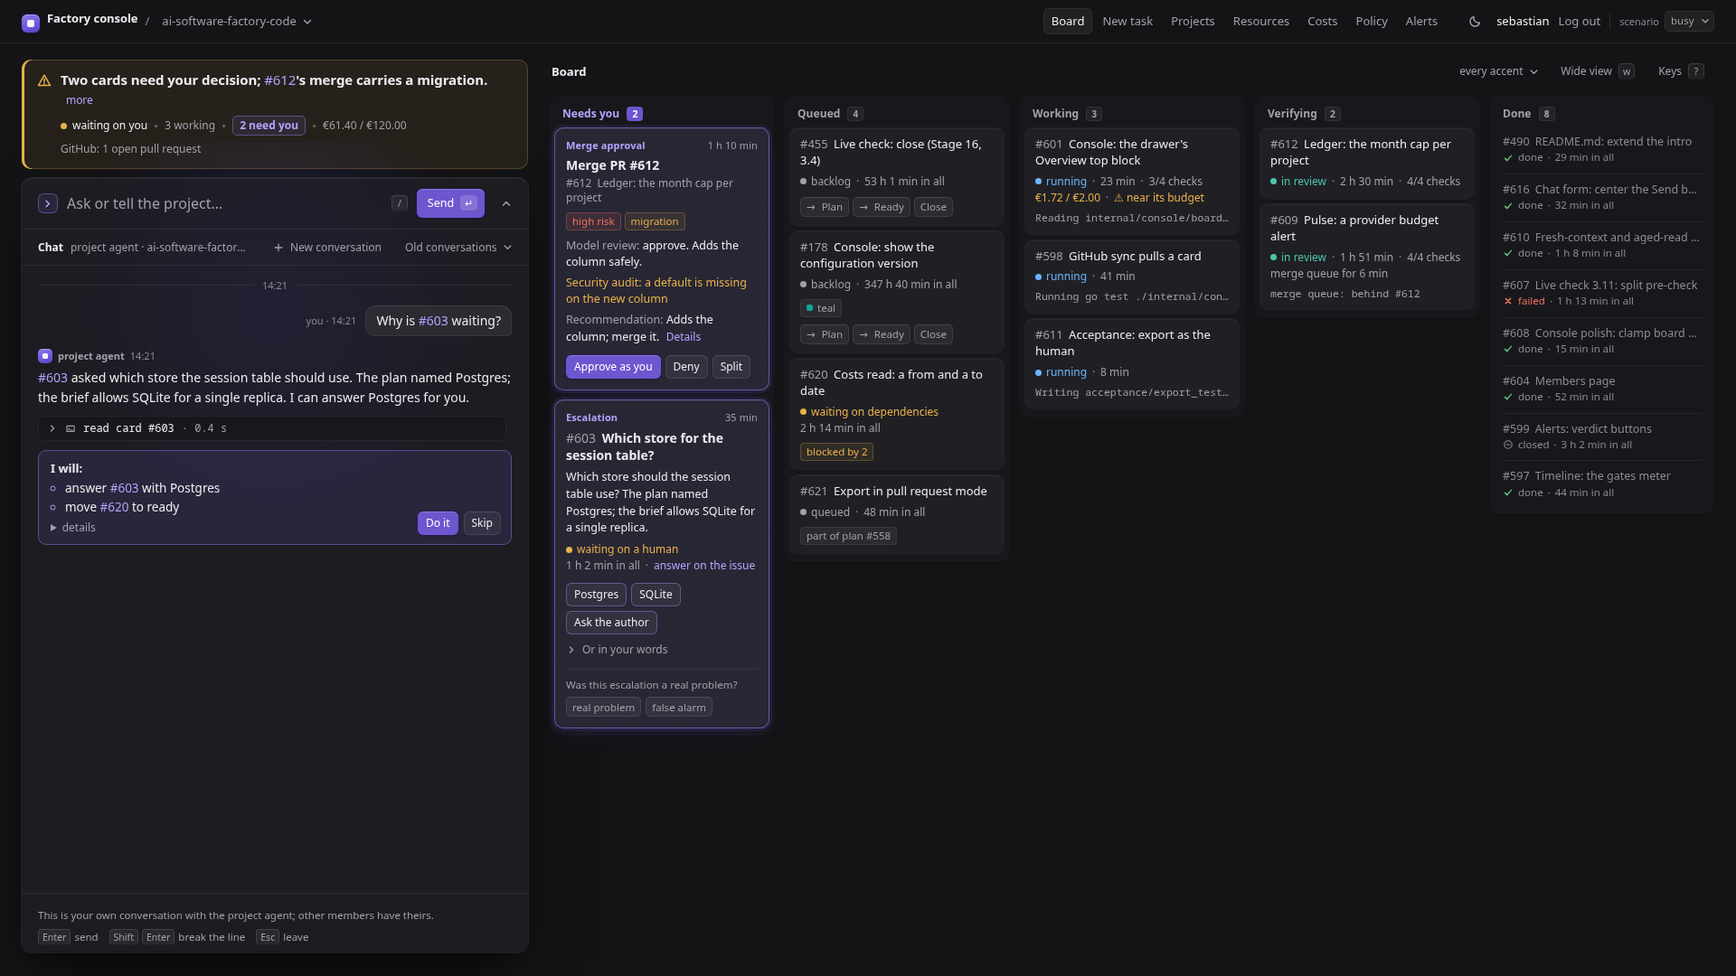
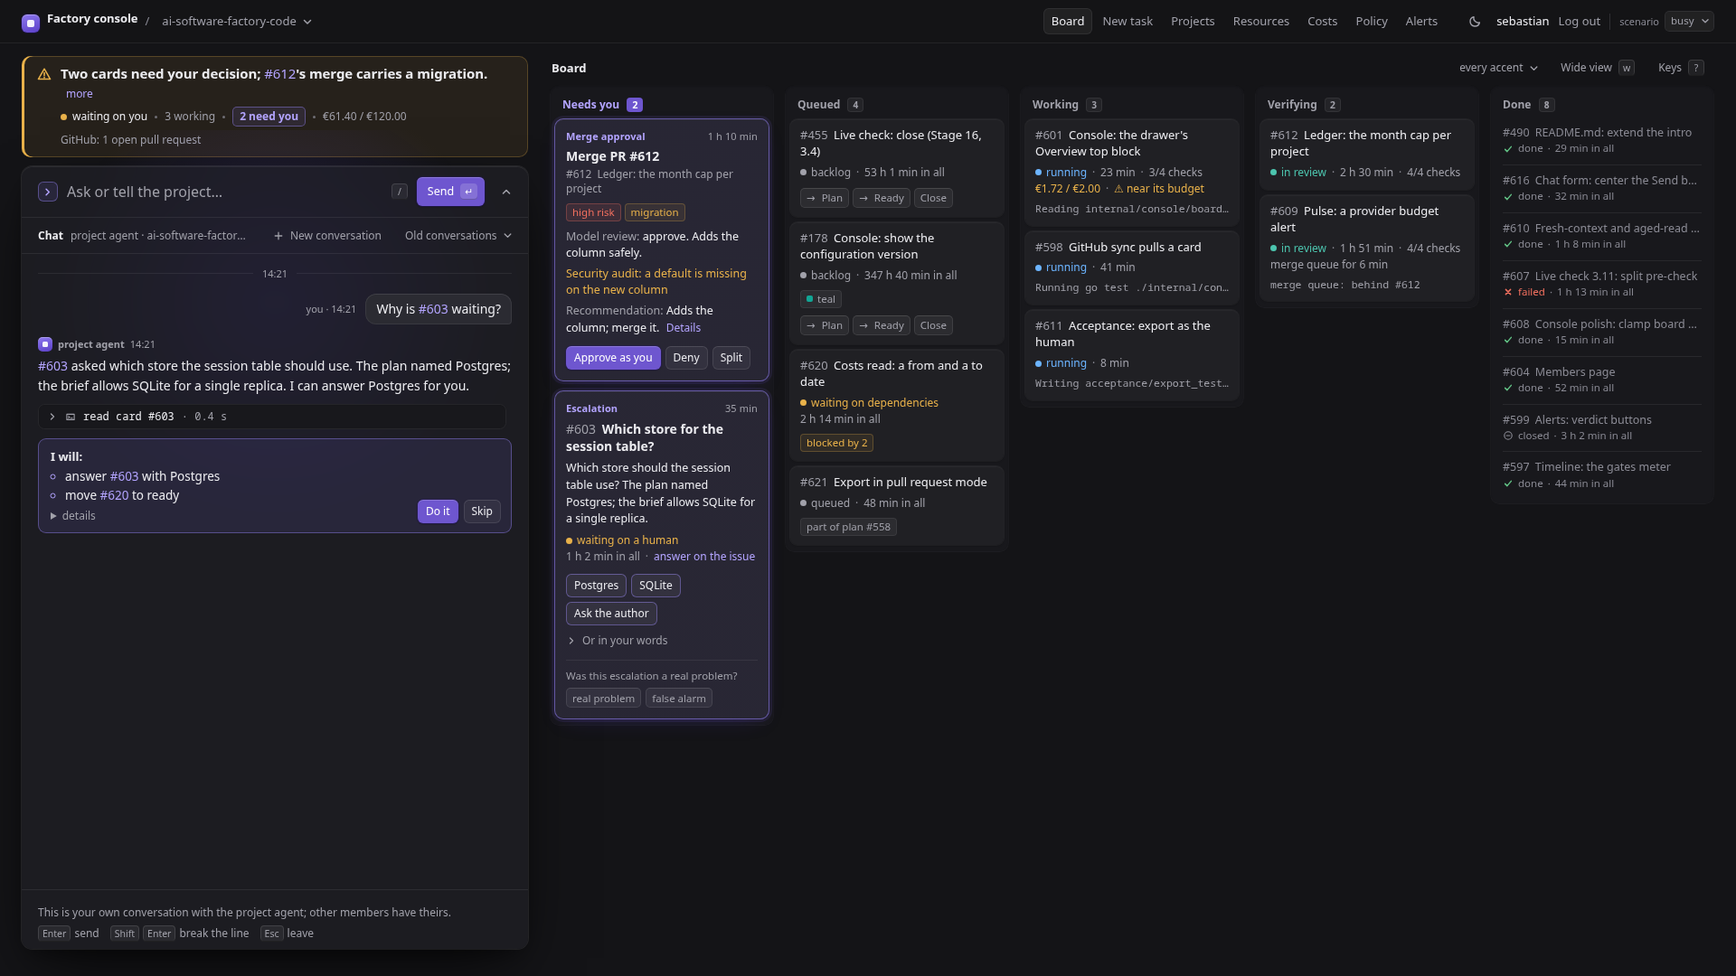
prototype 10 Command palette: fix loop 1 (first screen shows Needs you, the drawer's composer and turns, phone buttons, light Needs you) and the second critique

diff --git a/design/prototypes/10-command-palette/index.html b/design/prototypes/10-command-palette/index.html
@@ -30,7 +30,7 @@ html[data-theme="dark"] {
   --text: #ececf0; --text-muted: #a1a1aa; --text-faint: #8a8a94;
   --accent: #6e56cf; --accent-hover: #7b64db; --accent-text: #b3a4ff; --accent-ring: #9d8bff;
   --accent-soft: rgba(139, 116, 255, .11); --accent-line: rgba(157, 139, 255, .42);
-  --need-tint: rgba(139, 116, 255, .075); --need-ring: rgba(157, 139, 255, .55); --need-halo: rgba(139, 116, 255, .09);
+  --need-tint: rgba(139, 116, 255, .075); --need-ring: rgba(157, 139, 255, .55); --need-halo: rgba(139, 116, 255, .09); --need-well: var(--bg-sunken);
   --warn: #e8b14a; --warn-soft: rgba(232, 177, 74, .085); --warn-line: rgba(232, 177, 74, .26);
   --st-running: #6cb4ff; --st-waiting: #e8b14a; --st-review: #4cc4ae; --st-done: #63c587; --st-failed: #f2705f; --st-closed: #8b8b95;
   --danger-soft: rgba(242, 112, 95, .11); --danger-line: rgba(242, 112, 95, .3);
@@ -54,7 +54,7 @@ html[data-theme="light"] {
   --text: #18181c; --text-muted: #5b5b66; --text-faint: #60606b;
   --accent: #6e56cf; --accent-hover: #5e46c2; --accent-text: #5b43c4; --accent-ring: #6e56cf;
   --accent-soft: rgba(110, 86, 207, .075); --accent-line: rgba(110, 86, 207, .38);
-  --need-tint: rgba(110, 86, 207, .035); --need-ring: rgba(110, 86, 207, .55); --need-halo: rgba(110, 86, 207, .09);
+  --need-tint: rgba(110, 86, 207, .085); --need-ring: rgba(110, 86, 207, .85); --need-halo: rgba(110, 86, 207, .07); --need-well: #e9e5f5;
   --warn: #935700; --warn-soft: #fcf3dd; --warn-line: rgba(147, 87, 0, .22);
   --st-running: #1d68c7; --st-waiting: #935700; --st-review: #0a7466; --st-done: #1f6e3c; --st-failed: #b3301f; --st-closed: #66666f;
   --danger-soft: #fdecea; --danger-line: rgba(179, 48, 31, .25);
@@ -179,7 +179,7 @@ select.field { appearance: none; background: var(--bg-input) var(--chev) no-repe
 .flash { margin: 12px 24px 0; padding: 8px 12px; border-radius: 8px; background: var(--danger-soft); color: var(--st-failed); box-shadow: inset 0 0 0 1px var(--danger-line); }
 
 /* shell */
-.shell { padding: 18px 24px 48px; overflow-x: clip; }
+.shell { padding: 14px 24px 48px; overflow-x: clip; }
 .hero {
   position: relative; display: flex; flex-direction: column; gap: 10px;
   max-width: var(--col); margin-left: max(0px, calc((100% - var(--col)) / 2)); margin-right: auto;
@@ -187,7 +187,7 @@ select.field { appearance: none; background: var(--bg-input) var(--chev) no-repe
 }
 
 /* pulse */
-.pulse { position: relative; border-radius: 10px; padding: 12px 16px 11px 14px; box-shadow: inset 0 0 0 1px var(--line); }
+.pulse { position: relative; border-radius: 10px; padding: 9px 16px 8px 14px; box-shadow: inset 0 0 0 1px var(--line); }
 .pulse.prominent { background: var(--warn-soft); box-shadow: inset 3px 0 0 var(--warn), inset 0 0 0 1px var(--warn-line); padding-left: 17px; }
 .p-line { display: flex; align-items: flex-start; gap: 10px; }
 .p-sign { flex: none; width: 16px; height: 21px; display: grid; place-items: center; }
@@ -200,7 +200,7 @@ select.field { appearance: none; background: var(--bg-input) var(--chev) no-repe
 .p-bullets { margin: 8px 0 2px 26px; padding: 0 0 0 14px; color: var(--text); font-size: 13px; line-height: 1.5; }
 .p-bullets li { margin: 2px 0; }
 .p-bullets li::marker { color: var(--text-faint); }
-.figs-wrap { margin: 7px 0 0 26px; overflow: clip; overflow-clip-margin: 4px; }
+.figs-wrap { margin: 4px 0 0 26px; overflow: clip; overflow-clip-margin: 4px; }
 .figs { list-style: none; margin: 0 0 0 -19px; padding: 0; display: flex; flex-wrap: wrap; align-items: center; row-gap: 4px; font-size: 12px; color: var(--text-muted); }
 .figs li { display: inline-flex; align-items: center; height: 22px; white-space: nowrap; }
 .figs li::before { content: ""; flex: none; width: 3px; height: 3px; border-radius: 50%; background: var(--text-faint); opacity: .75; margin: 0 8px; }
@@ -244,22 +244,22 @@ select.field { appearance: none; background: var(--bg-input) var(--chev) no-repe
 .queue { list-style: none; margin: 0; padding: 6px 10px 8px 50px; border-top: 1px solid var(--line); display: flex; flex-direction: column; gap: 4px; }
 .queue:empty { display: none; }
 .queue li { display: flex; align-items: center; gap: 8px; font-size: 12.5px; color: var(--text-muted); }
-.queue .q-label { font-size: 11px; color: var(--text-faint); }
+.queue .q-label { font-size: 11px; color: var(--text-muted); }
 .queue .q-text { flex: 1; min-width: 0; overflow: hidden; text-overflow: ellipsis; white-space: nowrap; color: var(--text); }
-.sheet { border-top: 1px solid var(--line); display: flex; flex-direction: column; max-height: 42vh; min-height: 0; }
+.sheet { border-top: 1px solid var(--line); display: flex; flex-direction: column; max-height: 34vh; min-height: 0; }
 .sheet-h { flex: none; display: flex; align-items: center; gap: 8px; height: 40px; padding: 0 10px 0 18px; border-bottom: 1px solid var(--line); }
 .sheet-h h2 { font-size: 12px; font-weight: 600; }
 .sheet-h .who { font-size: 12px; color: var(--text-muted); white-space: nowrap; overflow: hidden; text-overflow: ellipsis; min-width: 0; }
 .sheet-h select { appearance: none; height: 26px; border: 0; border-radius: 6px; padding: 0 24px 0 9px; font-size: 12px; font-weight: 500; color: var(--text-muted); background: transparent var(--chev) no-repeat right 5px center / 15px; cursor: pointer; max-width: 200px; text-overflow: ellipsis; }
 .sheet-h select:hover { background-color: var(--btn); color: var(--text); }
-.log { position: relative; flex: 1; min-height: 0; overflow-y: auto; list-style: none; margin: 0; padding: 14px 18px 6px; overscroll-behavior: contain; scrollbar-width: thin; scrollbar-color: var(--line-strong) transparent; }
+.log { position: relative; flex: 1; min-height: 0; overflow-y: auto; -webkit-mask-image: linear-gradient(to bottom, transparent 0, #000 14px); mask-image: linear-gradient(to bottom, transparent 0, #000 14px); list-style: none; margin: 0; padding: 14px 18px 6px; overscroll-behavior: contain; scrollbar-width: thin; scrollbar-color: var(--line-strong) transparent; }
 .log > li { margin: 0 0 14px; }
-.log .start { display: flex; align-items: center; gap: 10px; font-size: 11px; color: var(--text-faint); }
+.log .start { display: flex; align-items: center; gap: 10px; font-size: 11px; color: var(--text-muted); }
 .log .start::before, .log .start::after { content: ""; flex: 1; height: 1px; background: var(--line); }
 .log .empty { color: var(--text-muted); font-size: 12.5px; text-align: center; padding: 6px 0 2px; }
 .msg-you { display: flex; justify-content: flex-end; align-items: center; gap: 10px; }
 .bubble { max-width: min(72ch, 86%); padding: 7px 12px; border-radius: 12px 12px 4px 12px; background: var(--bubble); box-shadow: var(--hi), inset 0 0 0 1px var(--line); font-size: 14px; line-height: 1.45; white-space: pre-wrap; overflow-wrap: anywhere; }
-.m-meta { display: flex; align-items: center; gap: 6px; font-size: 11px; color: var(--text-faint); margin-bottom: 5px; }
+.m-meta { display: flex; align-items: center; gap: 6px; font-size: 11px; color: var(--text-muted); margin-bottom: 5px; }
 .msg-you .m-meta { margin: 0; order: -1; }
 .log.is-empty { display: none; }
 .m-meta b { font-weight: 600; color: var(--text-muted); }
@@ -294,15 +294,16 @@ select.field { appearance: none; background: var(--bg-input) var(--chev) no-repe
 .link-btn { all: unset; color: var(--accent-text); font-weight: 500; cursor: pointer; border-radius: 3px; }
 .link-btn:hover { text-decoration: underline; text-underline-offset: 2px; }
 .link-btn:focus-visible { outline: 2px solid var(--accent-ring); outline-offset: 2px; }
-.log .typing-row { display: flex; align-items: center; gap: 8px; color: var(--text-faint); font-size: 11px; }
-.sheet-f { flex: none; display: flex; align-items: center; flex-wrap: wrap; gap: 6px 14px; padding: 8px 12px 8px 18px; border-top: 1px solid var(--line); font-size: 11.5px; color: var(--text-muted); }
+.log .typing-row { display: flex; align-items: center; gap: 8px; color: var(--text-muted); font-size: 11px; }
+.sheet-f { flex: none; display: flex; align-items: center; flex-wrap: wrap; gap: 6px 14px; padding: 8px 12px 8px 18px; border-top: 1px solid var(--line); font-size: 12px; color: var(--text-muted); }
+.sheet-f kbd { color: var(--text-muted); }
 .sheet-f .own { flex: 1 1 260px; min-width: 0; }
 .sheet-f .keys-hint { display: flex; align-items: center; gap: 12px; white-space: nowrap; }
 .sheet-f .keys-hint span { display: inline-flex; align-items: center; gap: 4px; }
 
 /* board */
-#board { margin-top: 28px; }
-.board-h { display: flex; align-items: center; gap: 8px; margin: 0 2px 12px; }
+#board { margin-top: 14px; }
+.board-h { display: flex; align-items: center; gap: 8px; margin: 0 2px 6px; }
 .board-h h2 { font-size: 13px; font-weight: 600; }
 .board-h .b-meta { color: var(--text-faint); font-size: 12px; }
 .board-h select { appearance: none; height: 26px; border: 0; border-radius: 6px; padding: 0 24px 0 9px; font-size: 12px; font-weight: 500; color: var(--text-muted); background: transparent var(--chev) no-repeat right 5px center / 15px; cursor: pointer; }
@@ -313,6 +314,7 @@ select.field { appearance: none; background: var(--bg-input) var(--chev) no-repe
 .col-h h3 { font-size: 12px; font-weight: 600; color: var(--text-muted); letter-spacing: .005em; }
 .count { font: 600 10.5px/1 var(--mono); color: var(--text-muted); background: var(--chip); padding: 3px 5px; border-radius: 4px; min-width: 18px; text-align: center; box-shadow: inset 0 0 0 1px var(--line); }
 .col[data-col="needs"] .col-h h3 { color: var(--accent-text); }
+.col[data-col="needs"] { background: var(--need-well); }
 .col[data-col="needs"] .count.on { background: var(--accent); color: #fff; box-shadow: none; }
 .col-tog { display: none; margin-left: auto; }
 .col-tog svg { transition: transform .15s; }
@@ -462,10 +464,16 @@ select.field { appearance: none; background: var(--bg-input) var(--chev) no-repe
 .meter i { position: absolute; left: 0; top: 0; bottom: 0; border-radius: 3px; background: var(--accent); }
 .add { color: var(--st-done); } .del { color: var(--st-failed); }
 .d-sess { display: flex; align-items: center; gap: 8px; font-size: 12px; color: var(--text-muted); padding-bottom: 10px; border-bottom: 1px solid var(--line); }
-.d-msgs { list-style: none; margin: 0; padding: 12px 0 4px; display: flex; flex-direction: column; gap: 12px; }
-.d-msgs .m-text { font-size: 13px; }
-.steer { margin-top: 10px; display: flex; flex-direction: column; gap: 6px; }
-.steer .row { display: flex; justify-content: flex-end; gap: 6px; }
+.d-msgs { list-style: none; margin: 0; padding: 12px 0 4px; display: flex; flex-direction: column; gap: 8px; }
+.d-msgs > li + li { padding-top: 8px; border-top: 1px solid var(--line); }
+.d-msgs .m-text, .d-msgs .bubble { font-size: 13.5px; }
+.d-msgs .msg-you { justify-content: flex-end; }
+.dr-foot { flex: none; padding: 12px 18px 16px 22px; border-top: 1px solid var(--line); }
+.steer { display: flex; align-items: center; gap: 10px; min-height: 52px; padding: 8px 8px 8px 14px; border-radius: 12px; background: var(--bg-glass); box-shadow: var(--palette-shadow); transition: box-shadow .15s; }
+.steer:focus-within { box-shadow: var(--palette-shadow), 0 0 0 1px var(--accent-line), 0 0 0 5px var(--accent-soft); }
+.steer textarea { flex: 1; min-width: 0; display: block; resize: none; border: 0; outline: none; background: transparent; color: var(--text); font: 400 14px/22px var(--font); padding: 4px 0; height: 30px; max-height: 110px; caret-color: var(--accent-text); }
+.steer textarea::placeholder { color: var(--text-muted); opacity: 1; }
+.steer .btn { flex: none; height: 30px; padding: 0 8px 0 12px; }
 .empty-note { color: var(--text-muted); padding: 10px 0; }
 .dr-h-acts { display: flex; align-items: center; gap: 4px; }
 
@@ -543,9 +551,8 @@ dialog#keys::backdrop { background: rgba(8, 8, 12, .45); }
   .col-tog { display: inline-grid; }
   .col.folded .col-b { display: none; }
   .col-h { cursor: pointer; }
-  .choices { flex-direction: column; }
-  .choices .btn, .n-acts .btn { height: 34px; }
-  .choices .btn { width: 100%; }
+  .need .n-acts, .need .choices, .need .own .row, .need .deny-form .row { flex-direction: column; align-items: stretch; gap: 6px; }
+  .need .n-acts .btn, .need .choices .btn, .need .own .row .btn, .need .deny-form .row .btn { width: 100%; height: 44px; font-size: 13px; }
   .lanes .cols.human { display: flex; }
   #drawer { top: 0; width: 100%; border-radius: 0; z-index: 60; }
   .dr-h { padding: 12px 14px 10px; }
@@ -710,7 +717,7 @@ dialog#keys::backdrop { background: rgba(8, 8, 12, .45); }
       </div></div>
       <div class="figs-wrap"><ul class="figs" aria-label="Status">
         <li class="f-state"><i class="dot h-${stateHue}"></i>${esc(sc.state)}</li>
-        <li>${sc.working.filter((c) => !c.provider).length} working</li>
+        <li>${sc.workingCount} working</li>
         ${sc.provider ? `<li class="f-prov">${sc.provider} waiting on the provider</li>` : ''}
         <li>${sc.needYou ? `<a class="f-need" href="#col-needs" data-act="goto-needs">${sc.needYou} need you</a>` : `${sc.needYou} need you`}</li>
         <li><a href="#" class="${over ? 'f-over' : ''}" title="Costs">${over ? W + ' ' : ''}${eur(sc.spend)} / ${eur(sc.cap)}</a></li>
@@ -1005,8 +1012,14 @@ dialog#keys::backdrop { background: rgba(8, 8, 12, .45); }
     if (!s) return `<p class="empty-note">No session yet</p>`;
     const msgs = s.said.concat(st.session);
     return `<div class="d-sess"><span class="agent-mark" aria-hidden="true"></span><span>Session ${s.n} · ${esc(s.model)} · <span class="h-${hue(s.outcome)}">${esc(s.outcome)}</span></span></div>
-      <ol class="d-msgs">${msgs.map((x) => `<li><div class="m-meta"><b>${esc(x.who)}</b>${esc(x.at)}</div><div class="m-text">${refs(x.text)}</div></li>`).join('')}</ol>
-      ${s.outcome === 'running' ? `<form class="steer" data-form="steer"><label class="sr" for="steer">Your message to the running session</label><textarea class="field" id="steer" rows="2" placeholder="Your message to the running session"></textarea><div class="row"><button class="btn primary sm" type="submit">Send</button></div></form>` : ''}`;
+      <ol class="d-msgs">${msgs.map((x) => x.who === 'agent'
+        ? `<li class="msg-agent"><div class="m-meta"><span class="agent-mark" aria-hidden="true"></span><b>${esc(x.who)}</b>${esc(x.at)}</div><div class="m-text">${refs(x.text)}</div></li>`
+        : `<li class="msg-you"><div class="bubble">${refs(x.text)}</div><div class="m-meta">${esc(x.who)} · ${esc(x.at)}</div></li>`).join('')}</ol>`;
+  }
+  function steerHTML(m) {
+    const s = m.D && m.D.session;
+    if (st.tab !== 'chat' || !s || s.outcome !== 'running') return '';
+    return `<div class="dr-foot"><form class="steer" data-form="steer"><label class="sr" for="steer">Your message to the running session</label><textarea id="steer" rows="1" placeholder="Your message to the running session"></textarea><button class="btn primary" type="submit">Send <kbd aria-hidden="true">↵</kbd></button></form></div>`;
   }
   function activityHTML(m) {
     const D = m.D;
@@ -1046,7 +1059,8 @@ dialog#keys::backdrop { background: rgba(8, 8, 12, .45); }
         ${stateRow(c, { spend: true, lane: true, pr: true })}
       </header>
       <div class="tabs" role="tablist" aria-label="Card">${TABS.map(([k, l]) => `<button class="tab" role="tab" type="button" id="tab-${k}" data-act="tab" data-tab="${k}" aria-selected="${st.tab === k}" aria-controls="dr-panel" tabindex="${st.tab === k ? 0 : -1}">${l}</button>`).join('')}</div>
-      <div class="dr-body" id="dr-panel" role="tabpanel" aria-labelledby="tab-${st.tab}" tabindex="0">${panel}</div>`;
+      <div class="dr-body" id="dr-panel" role="tabpanel" aria-labelledby="tab-${st.tab}" tabindex="0">${panel}</div>${steerHTML(m)}`;
+    if (st.tab === 'chat') { const b = $('#dr-panel'); b.scrollTop = b.scrollHeight; }
   }
   function openDrawer(issue, opts) {
     opts = opts || {};
@@ -1197,6 +1211,15 @@ dialog#keys::backdrop { background: rgba(8, 8, 12, .45); }
         renderDrawer(); $('#steer').focus();
       } break;
     }
+  });
+  document.addEventListener('keydown', (ev) => {
+    if (ev.target.id === 'steer' && ev.key === 'Enter' && !ev.shiftKey && !ev.isComposing) {
+      ev.preventDefault();
+      ev.target.form.requestSubmit();
+    }
+  });
+  document.addEventListener('input', (ev) => {
+    if (ev.target.id === 'steer') { const t = ev.target; t.style.height = 'auto'; t.style.height = Math.min(t.scrollHeight, 110) + 'px'; }
   });
 
   document.addEventListener('change', (ev) => {

diff --git a/design/themes/10-command-palette/DESIGN.md b/design/themes/10-command-palette/DESIGN.md
@@ -19,7 +19,7 @@ Raycast for a software project: one large frosted command bar under the pulse is
 | --text-muted | #a1a1aa | #5b5b66 | meta, figures |
 | --text-faint | #8a8a94 | #60606b | done cards (4.5:1 on the well) |
 | --accent | #6e56cf fill, #b3a4ff text | #6e56cf fill, #5b43c4 text | links, focus ring, the primary button, the bar's caret |
-| --need | the accent: violet ring, violet tint rgba(139,116,255,.10) | violet ring, tint #f6f3ff | Needs you items and their column |
+| --need | the accent: violet ring, violet tint rgba(139,116,255,.075) | 1 px violet rule rgba(110,86,207,.85), violet fill rgba(110,86,207,.085), the column well #e9e5f5 | Needs you items and their column |
 | --warn | #e8b14a | #935700 | the prominent pulse, near budget, stale |
 | --st-running | #6cb4ff | #1d68c7 | blue |
 | --st-waiting | #e8b14a | #935700 | amber: on a human, on dependencies, on the provider |
@@ -37,7 +37,7 @@ One family, the system sans (`-apple-system, Segoe UI, Inter, Noto Sans, system-
 ## Layout at 1440 and 1920
 
 - Top bar, 48 px, one row: "Factory console / project ▾" left, the page links centre-right, the theme key, the user, Log out, the scenario select last.
-- 900 to 1699 px: one centred column of 820 px holds the pulse strip, the command bar and its sheet; the board spans the full width below, never under the sheet. The sheet is at most 40 percent of the viewport high and scrolls inside; a chevron collapses it to the bar alone.
+- 900 to 1699 px: one centred column of 820 px holds the pulse strip, the command bar and its sheet; the board spans the full width below, never under the sheet. The sheet is at most 34 percent of the viewport high and scrolls inside, so the first Needs you item and its buttons sit on the first screen at 1440×900; a chevron collapses it to the bar alone.
 - 1700 px and wider: the column docks left at 560 px, sticky, the sheet filling the height; the board takes the rest on the right.
 - The drawer docks at the right edge below the top bar, 46 percent wide, at most 720 px, over the board. While it is open the centred column slides left into the free space, so it never covers the bar or the sheet.
 - Wide view (w): the board becomes two swimlanes, the Human lane (Approvals, Escalations, Human tasks) above the Agent lane (Backlog, Plan, Ready, Review, Done), lane badges and drag handles on.
@@ -48,7 +48,7 @@ A strip as wide as the bar, directly above it. The sentence first at 15 px/600, 
 
 ## The chat
 
-One frosted panel. The bar: a violet prompt glyph, a 16 px textarea ("Ask or tell the project…") that grows to five lines, the `/` key cap while unfocused, Send with its ↵ cap, the collapse chevron. Focus rings the whole palette in violet. The sheet under it: header "Chat", "project agent · project", New conversation, the old conversations select. The sheet is at most 42 percent of the viewport and opens on the last exchange; an empty conversation shows no log at all. Your message is a raised bubble on the right; the agent reply is plain text on the panel at a 72-character measure; a tool block is one mono line with a disclosure; a proposal is a violet-ringed card, "I will:" and the changes, Do it (violet, primary) and Skip (quiet). Do it turns it into a green "applied" line with undo, and the board shows the change on the cards it names ("Answered: Postgres" on #603, "Moved to ready" on #620); undo restores both. Footer: "This is your own conversation…" left, the key hints right (Enter send, Shift Enter break the line, Esc leave). The queue of waiting messages sits between the bar and the log, each with edit and remove.
+One frosted panel. The bar: a violet prompt glyph, a 16 px textarea ("Ask or tell the project…") that grows to five lines, the `/` key cap while unfocused, Send with its ↵ cap, the collapse chevron. Focus rings the whole palette in violet. The sheet under it: header "Chat", "project agent · project", New conversation, the old conversations select. The sheet is at most 34 percent of the viewport, fades out at its top edge and opens on the last exchange; an empty conversation shows no log at all. Your message is a raised bubble on the right; the agent reply is plain text on the panel at a 72-character measure; a tool block is one mono line with a disclosure; a proposal is a violet-ringed card, "I will:" and the changes, Do it (violet, primary) and Skip (quiet). Do it turns it into a green "applied" line with undo, and the board shows the change on the cards it names ("Answered: Postgres" on #603, "Moved to ready" on #620); undo restores both. Footer: "This is your own conversation…" left, the key hints right (Enter send, Shift Enter break the line, Esc leave). The queue of waiting messages sits between the bar and the log, each with edit and remove.
 
 ## The board and the card
 
@@ -60,11 +60,11 @@ Raised cards with a violet ring and tint, the only coloured surfaces on the boar
 
 ## The drawer
 
-Raised panel, 12 px left radius, a deep shadow. Header: #ref (link to the issue), the title 17 px, close with the Esc cap; a facts row (state, elapsed, checks, spend, lane badge, PR). Tabs Overview, Chat, Activity, Files as an underlined segmented row. Overview: the top block as a four-row definition list (Task, Status, Budget muted under 80 percent, Agent muted), the open need in a violet card, then the collapsed sections Objective, The agent's summary, The plan, Reviews and audit, Related cards, Edit, Links.
+Raised panel, 12 px left radius, a deep shadow. Header: #ref (link to the issue), the title 17 px, close with the Esc cap; a facts row (state, elapsed, checks, spend, lane badge, PR). Tabs Overview, Chat, Activity, Files as an underlined segmented row. Overview: the top block as a four-row definition list (Task, Status, Budget muted under 80 percent, Agent muted), the open need in a violet card, then the collapsed sections Objective, The agent's summary, The plan, Reviews and audit, Related cards, Edit, Links. Chat tab: the turns as in the main sheet (the agent with its mark and a name line, the member as a bubble), 8 px between turns with a hairline; the steer box docks at the drawer's foot as a small command bar (frosted, 12 px radius, violet focus ring, Send with ↵).
 
 ## The phone
 
-Under 900 px one column: the top bar (home, project, a Menu key that opens the links, theme, user, Log out, scenario), the pulse strip, the bar with its sheet at 55 percent of the viewport, then the board as stacked sections in the order Needs you, Working, Verifying, Queued, Done, Done collapsed. Choice buttons full width. The drawer takes the full screen.
+Under 900 px one column: the top bar (home, project, a Menu key that opens the links, theme, user, Log out, scenario), the pulse strip, the bar with its sheet at 55 percent of the viewport, then the board as stacked sections in the order Needs you, Working, Verifying, Queued, Done, Done collapsed. Needs you actions (Approve as you, Deny, Split, the choices, Answer or Grant) one per row, full width, 44 px tall, on both items. The drawer takes the full screen.
 
 ## Motion
 
